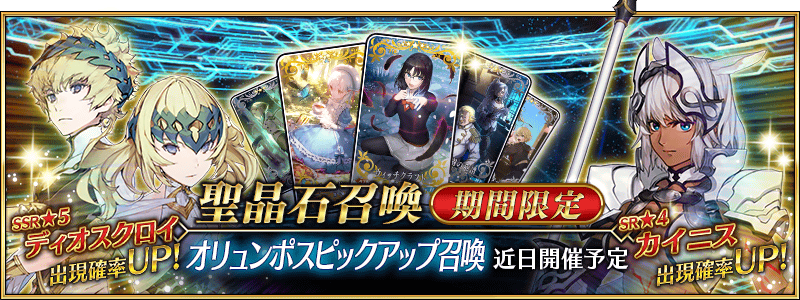
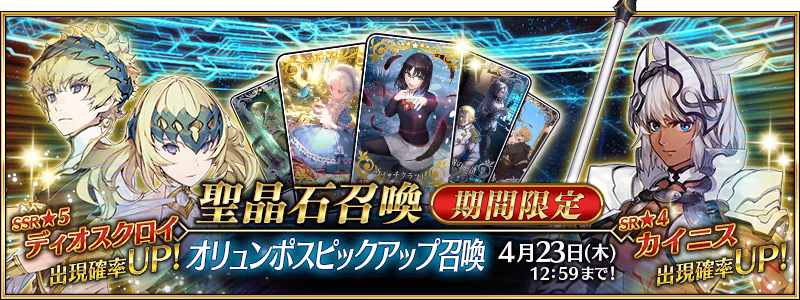
olympus_full_pqcvp

diff --git a/gacha_olympus_pu.html b/gacha_olympus_pu.html
@@ -118,7 +118,7 @@ body {
 <p>
 <span class="diamond">◆</span><span class="strong">「奧林帕斯Pick Up召喚」期間</span><span class="diamond">◆</span><br/>
 <span class="em01">
-期間:預定近日舉辦
+期間:2020年4月9日(四) 17:00～4月23日(四) 11:59
 </span>
 </p>
 <div class="em01">
@@ -160,14 +160,14 @@ Pick Up期間中，Pick Up對象從者的出現機率提升！
 <span class="diamond">◆</span><span class="strong">有關從者的注意</span><span class="diamond">◆</span><br/>
 <span class="em01">
 <span class="indent">
-※下述的從者在第2部 第5章「Lostbelt No.5 星間都市山脈 奧林帕斯 擊落神之日」開幕以後，通過Lostbelt No.5(奧林帕斯)後追加到故事召喚。
+※下述的從者自2020年4月9日(四) 17:00，在通過Lostbelt No.5(奧林帕斯)後追加到故事召喚。
 <span class="indent">
 ・★4(SR)凱涅厄斯	
 </span>
 </span>
 <!-- -->
 <span class="indent">
-※下述的從者自Pick Up期間結束後，追加到故事召喚。
+※下述的從者自Pick Up期間結束後的2020年4月23日(四) 12:00，追加到故事召喚。
 <span class="indent">
 ・★5(SSR)狄奧斯庫洛伊	
 </span>
@@ -199,7 +199,7 @@ Pick Up期間中，Pick Up對象從者的出現機率提升！
 </span>
 <!-- -->
 <span class="indent">
-※下述的概念禮裝自Pick Up期間結束後，追加到故事召喚。	
+※下述的概念禮裝自Pick Up期間結束後的2020年4月23日(四) 12:00，追加到故事召喚。	
 <span class="indent">・★5(SSR)ウィッチクラフト</span>
 <span class="indent">・★4(SR)リズムド・バース</span>
 <span class="indent">・★3(R)黄金樹の系譜</span>
@@ -209,7 +209,7 @@ Pick Up期間中，Pick Up對象從者的出現機率提升！
 ※隨著翻新，下述的概念禮裝於本召喚為召喚對象外。
 <span class="indent">・★3(R)深窓の麗人</span>
 </span>
-<span class="indent">※本召喚的舉辦期間結束後，下述的概念禮裝變得不會從故事召喚被抽出，追加至友情點數召喚。
+<span class="indent">※2020年4月23日(四) 12:00以後，下述的概念禮裝變得不會從故事召喚被抽出，追加至友情點數召喚。
 <span class="indent">・★3(R)深窓の麗人</span>
 </span>
 </span>

diff --git a/index.html b/index.html
@@ -175,7 +175,7 @@ $(function(){
 }
 </style>
 
-<h1 class="headline3"><dl><dt class="date">4/8</dt><span class="new">&nbsp;</span><dd>第2部 第5章「Lostbelt No.5 星間都市山脈 奧林帕斯 擊落神之日」預定近日開幕！</dd></dl></h1>
+<h1 class="headline3"><dl><dt class="date">4/9</dt><dd>第2部 第5章「Lostbelt No.5 星間都市山脈 奧林帕斯 擊落神之日」！</dd></dl></h1>
 <p>
 <a href="story_olympus.html"><img src="common/images/2020/olympus_full_pqcvp/top_banner.png" width=400 /></a>
 <a href="gacha_olympus_pu.html"><img src="common/images/2020/olympus_pu_bcprj/top_banner.png" width=400 /></a>

diff --git a/story_olympus.html b/story_olympus.html
@@ -133,7 +133,7 @@ body {
 <p>
 <span class="diamond">◆</span><span class="strong">公開時間</span><span class="diamond">◆</span><br/>
 <span class="em01">
-預定近日開幕
+2020年4月9日(四) 17:00～
 </span>
 </p>
 <p>
@@ -187,6 +187,11 @@ body {
 <a href="gacha_olympus_pu.html">
 <img alt="" src="common/images/2020/olympus_pu_bcprj/top_banner.png"/>
 </a>
+<span class="em01">
+<span class="indent">
+※4月9日(四) 17:00圖片修正	
+</span>
+</span>
 </p>
 <p>
 <span class="indent">
